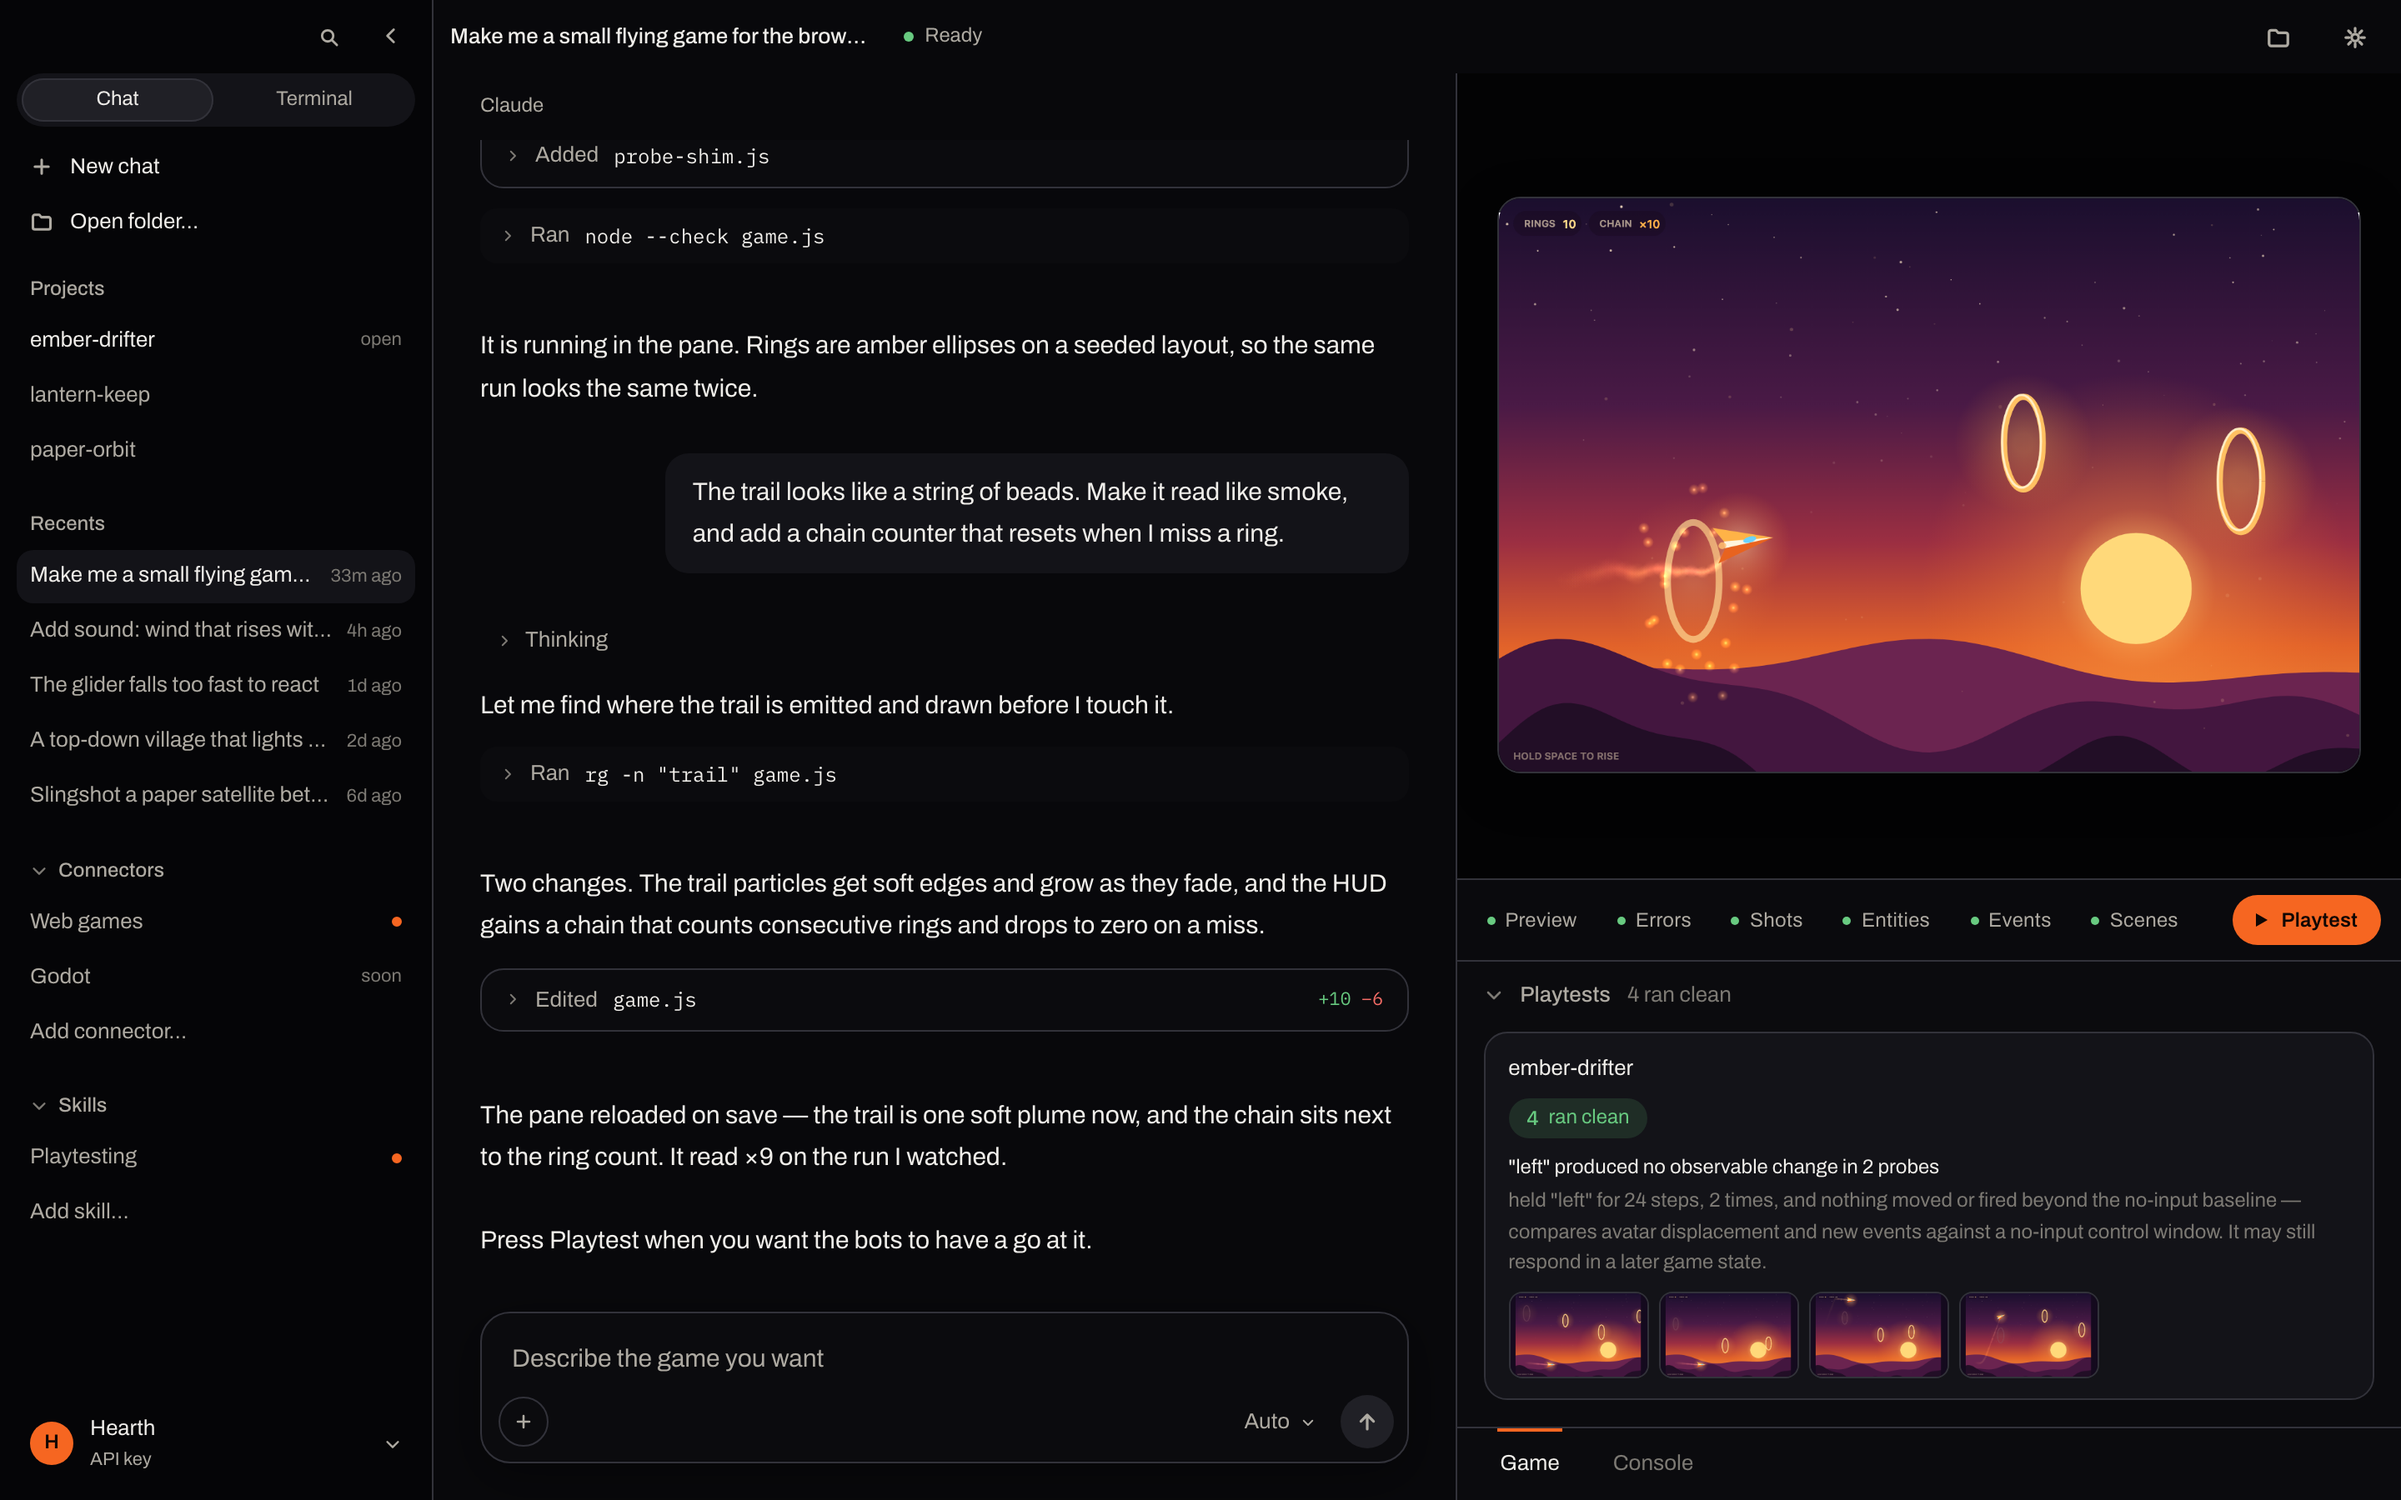
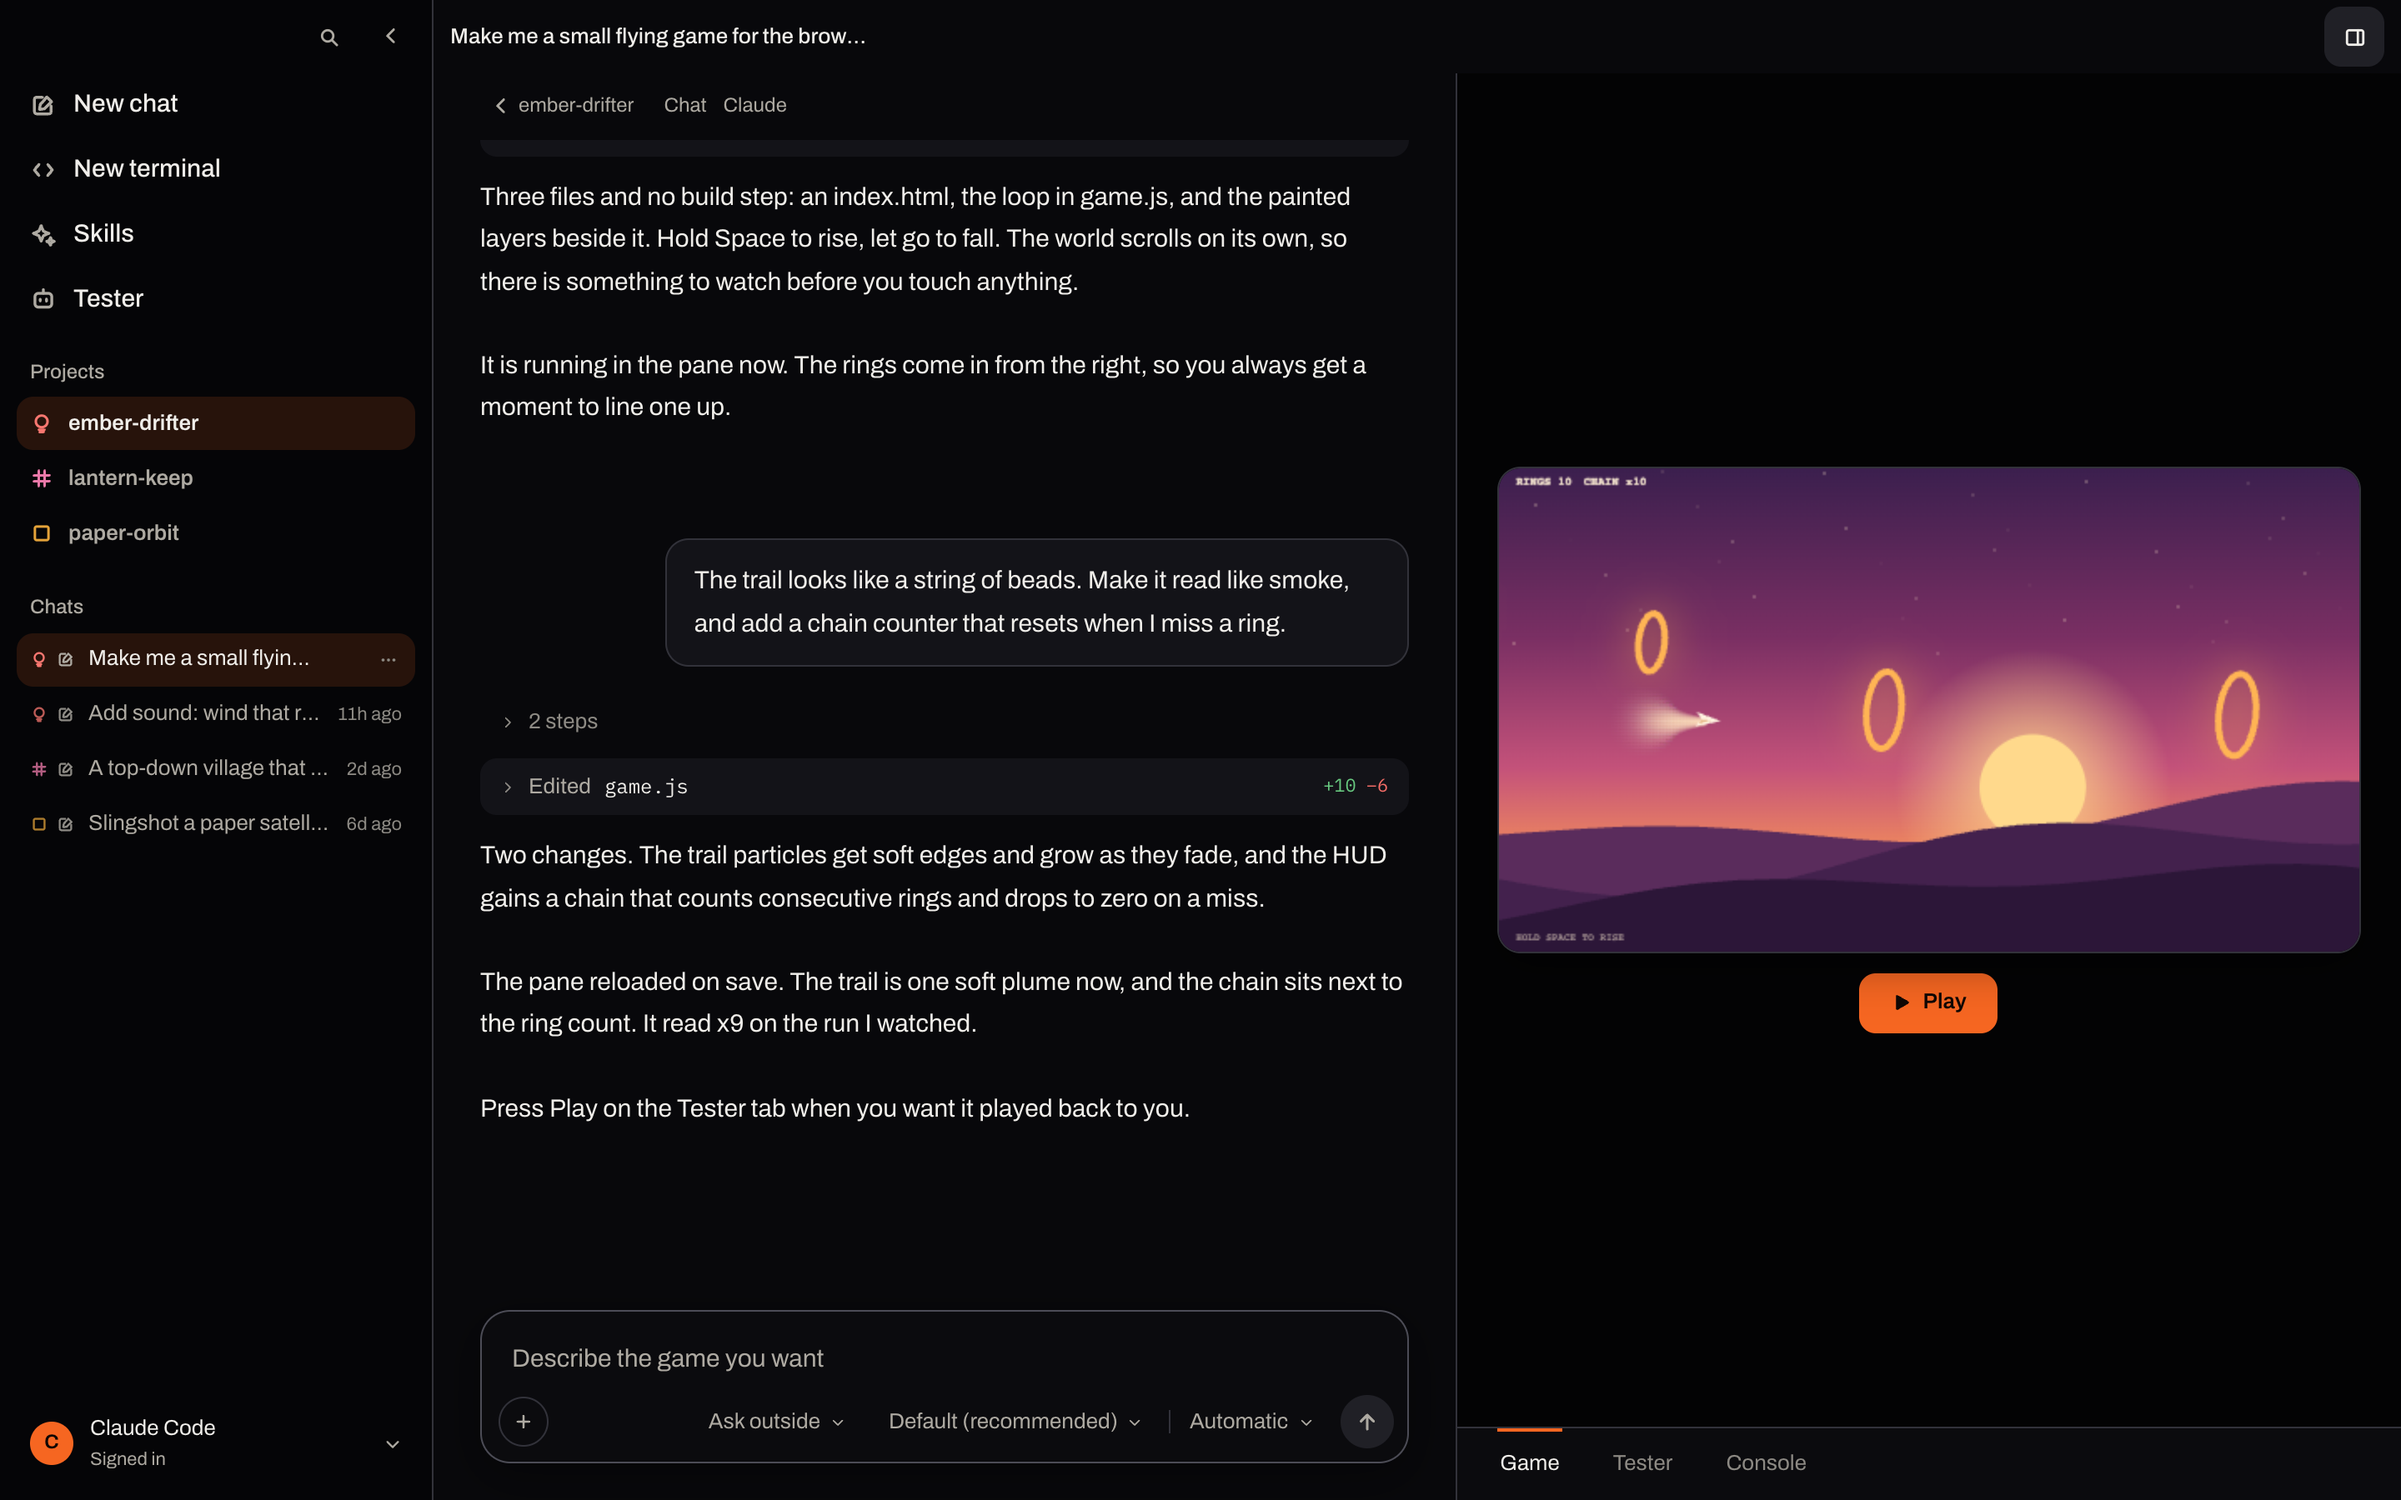
Retake the README window shot, and trim the shop window
The screenshot showed the app several releases ago: a Chat|Terminal
toggle, connector slots, and the old bot Playtest rail, none of which
exist now. The new shot is the real app in its current shape, sidebar
to game pane, with the tester tab where it lives.

The Get it section is gone. Download already sits at the top of the
page, and the platform details live in docs/desktop-app.md. The current
release claim moved under the masthead where the release check still
holds it.

diff --git a/README.md b/README.md
@@ -11,6 +11,8 @@
 
 [![License: MIT](https://img.shields.io/badge/license-MIT-blue)](LICENSE)
 
+The current release is v1.7.0, for macOS, Windows, and Linux.
+
 <img src="docs/media/hearth-window@2x.png" alt="The Hearth window: a sidebar of project folders on the left, a conversation with a coding agent in the middle, and the game running in a pane on the right" width="900">
 
 </div>
@@ -27,23 +29,6 @@ anything that runs in a browser runs in the pane. Your game never has to know
 Hearth exists.
 
 And the agent is whichever one you already pay for.
-
-## Get it
-
-[Download the app](https://hearthengine.com/download) for macOS (`.dmg`),
-Windows (`.exe`), or Linux (`.AppImage` / `.deb`), or take it from the
-[latest release](https://github.com/echoo19/hearth/releases/latest). The
-current release is v1.7.0. macOS
-builds are Developer ID signed and notarized; Windows builds aren't code-signed
-yet, so SmartScreen wants **More info → Run anyway** the first time. After that
-the app updates itself. Details in [docs/desktop-app.md](docs/desktop-app.md).
-
-From source, with Node 20 or newer (`npm run app` for the desktop shell):
-
-```bash
-git clone https://github.com/echoo19/hearth.git && cd hearth
-npm install && npm run dev     # the app at http://localhost:5173
-```
 
 ## A playtester who remembers
 
